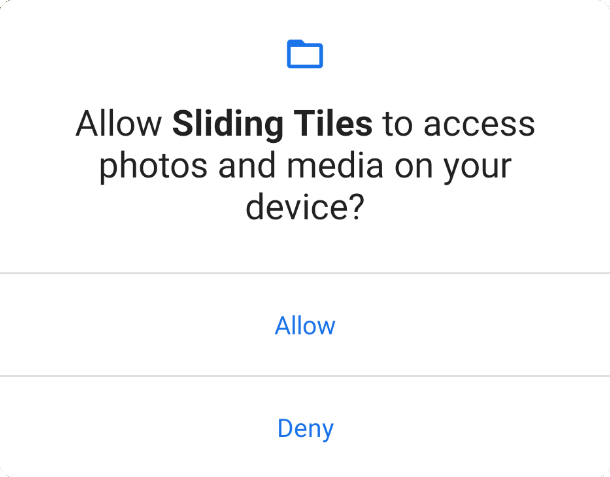
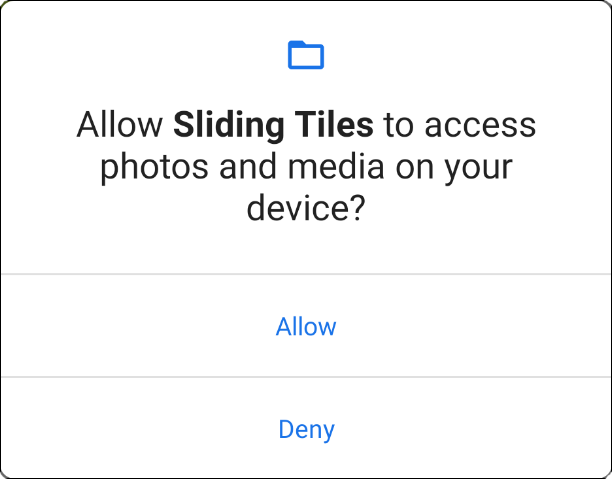
Tweak image borders and CSS.

diff --git a/docs/assets/css/style.scss b/docs/assets/css/style.scss
@@ -3,11 +3,8 @@
 
 @import "{{ site.theme }}";
 
-li {
-  clear: both;
-}
-
 img {
+  clear: both;
   float: right;
 }
 
